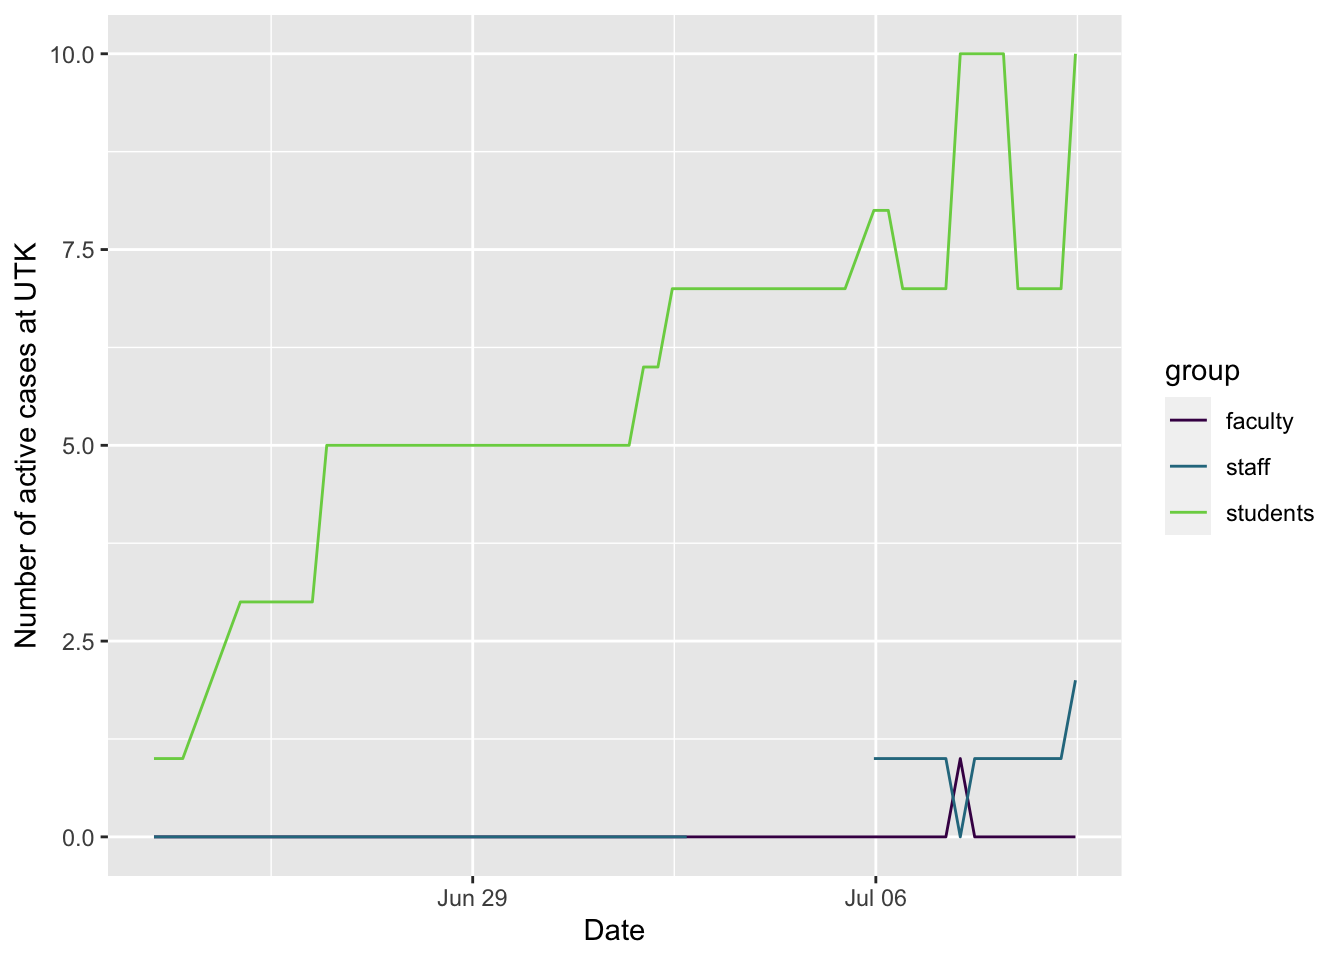
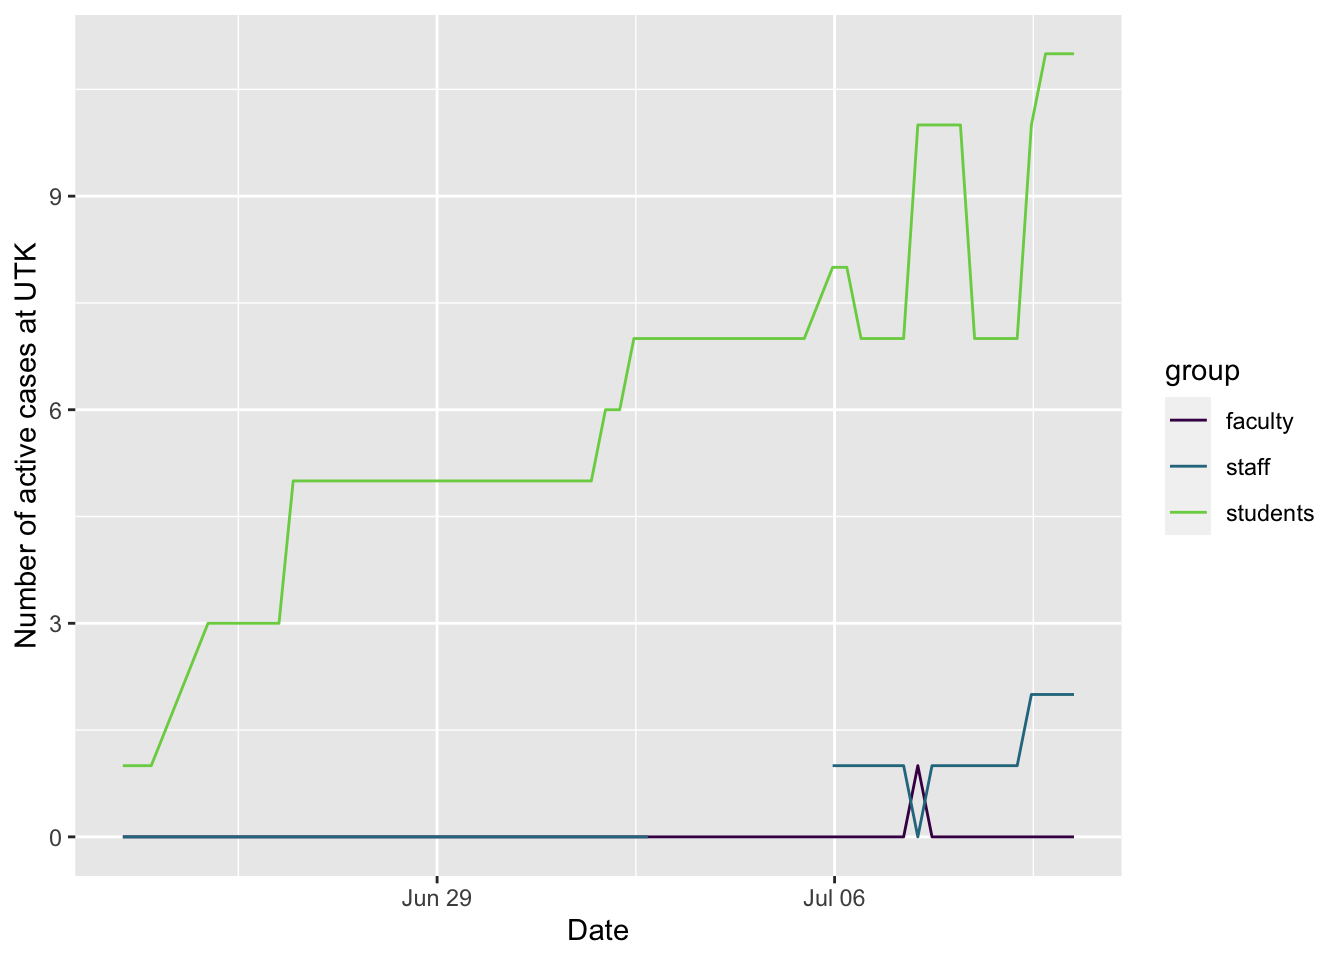
updating site

diff --git a/docs/covid.html b/docs/covid.html
@@ -412,7 +412,7 @@ $(document).ready(function () {
 <li><a href="https://projects.propublica.org/reopening-america/">ProPublica’s tracker of state status</a>. Click on the play button below their map to see how rates are changing over time, and dig into info on your state.</li>
 </ul>
 <hr />
-<p>Here are some plots, created in R using data from <a href="https://covid19datahub.io" class="uri">https://covid19datahub.io</a> (Guidotti, E., Ardia, D., (2020), “COVID-19 Data Hub”, Working paper, doi: 10.13140/RG.2.2.11649.81763), as well as information from Google and the <a href="https://www.tn.gov/health/cedep/ncov/data/downloadable-datasets.html">state of Tennessee dataset page</a> and plotting and analysis using the <code>forecast</code>, <code>ggplot2</code>, <code>reshape2</code>, and <code>dplyr</code> packages. It also uses the <a href="https://github.com/mtna/rds-r">rds-r</a> package from <a href="https://www.richdataservices.com/" class="uri">https://www.richdataservices.com/</a>. Plots created on 2020-07-09 16:40:34. I use <code>ggplot2</code>’s <code>geom_smooth()</code> function for the smoothed regression plots with its default formula, which uses loess smoothing for this many points. This is not based on a model of disease spread or anything similarly sophisticated, just drawing a smooth curve to summarize noisy points (see <a href="https://www.itl.nist.gov/div898/handbook/pmd/section1/pmd144.htm">here</a> for more details).</p>
+<p>Here are some plots, created in R using data from <a href="https://covid19datahub.io" class="uri">https://covid19datahub.io</a> (Guidotti, E., Ardia, D., (2020), “COVID-19 Data Hub”, Working paper, doi: 10.13140/RG.2.2.11649.81763), as well as information from Google and the <a href="https://www.tn.gov/health/cedep/ncov/data/downloadable-datasets.html">state of Tennessee dataset page</a> and plotting and analysis using the <code>forecast</code>, <code>ggplot2</code>, <code>reshape2</code>, and <code>dplyr</code> packages. It also uses the <a href="https://github.com/mtna/rds-r">rds-r</a> package from <a href="https://www.richdataservices.com/" class="uri">https://www.richdataservices.com/</a>. Plots created on 2020-07-10 08:40:29. I use <code>ggplot2</code>’s <code>geom_smooth()</code> function for the smoothed regression plots with its default formula, which uses loess smoothing for this many points. This is not based on a model of disease spread or anything similarly sophisticated, just drawing a smooth curve to summarize noisy points (see <a href="https://www.itl.nist.gov/div898/handbook/pmd/section1/pmd144.htm">here</a> for more details).</p>
 <p>The number of new and active cases should be not be going up if things are well-controlled, and ideally should be going down. The number of active cases is the number of positive cases minus the total of recovered or deceased cases: note it is from those tested and shown to be positive, but there are likely more people with covid who have not been tested. This uses data from <a href="https://www.tn.gov/health/cedep/ncov/data/downloadable-datasets.html" class="uri">https://www.tn.gov/health/cedep/ncov/data/downloadable-datasets.html</a>. Note that the number of active cases in Knox County reported by the state differs from the <a href="https://covid.knoxcountytn.gov/case-count.html#covid_data">county website</a>, sometimes dramatically (on June 16, the county website said 102 active cases, while the state says 178, for example) – I suspect this is based on the number of recovered cases not being updated as quickly in the state data, but I do not know. Knox County does not seem to offer a download of their data through time, so I am using the state’s data. The number of new cases per day seems to align fairly well, but not perfectly, between the state and county data, too.</p>
 <p><img src="covid_files/figure-html/plotsA-1.png" width="672" /><img src="covid_files/figure-html/plotsA-2.png" width="672" /></p>
 <p>A question is whether testing is adequate. The White House has said about 30 tests per 1000 people per month is adequate (this is also what <a href="https://projects.propublica.org/reopening-america/#notes">ProPublica</a> uses); others have argued that around 45 tests per 1000 people per month is better, though with variation depending on infection rate (see <a href="https://www.statnews.com/2020/04/27/coronavirus-many-states-short-of-testing-levels-needed-for-safe-reopening/">here</a>). These are the black lines on the plots below (calculated as tests per day, given Knox County’s population of 470313).</p>
